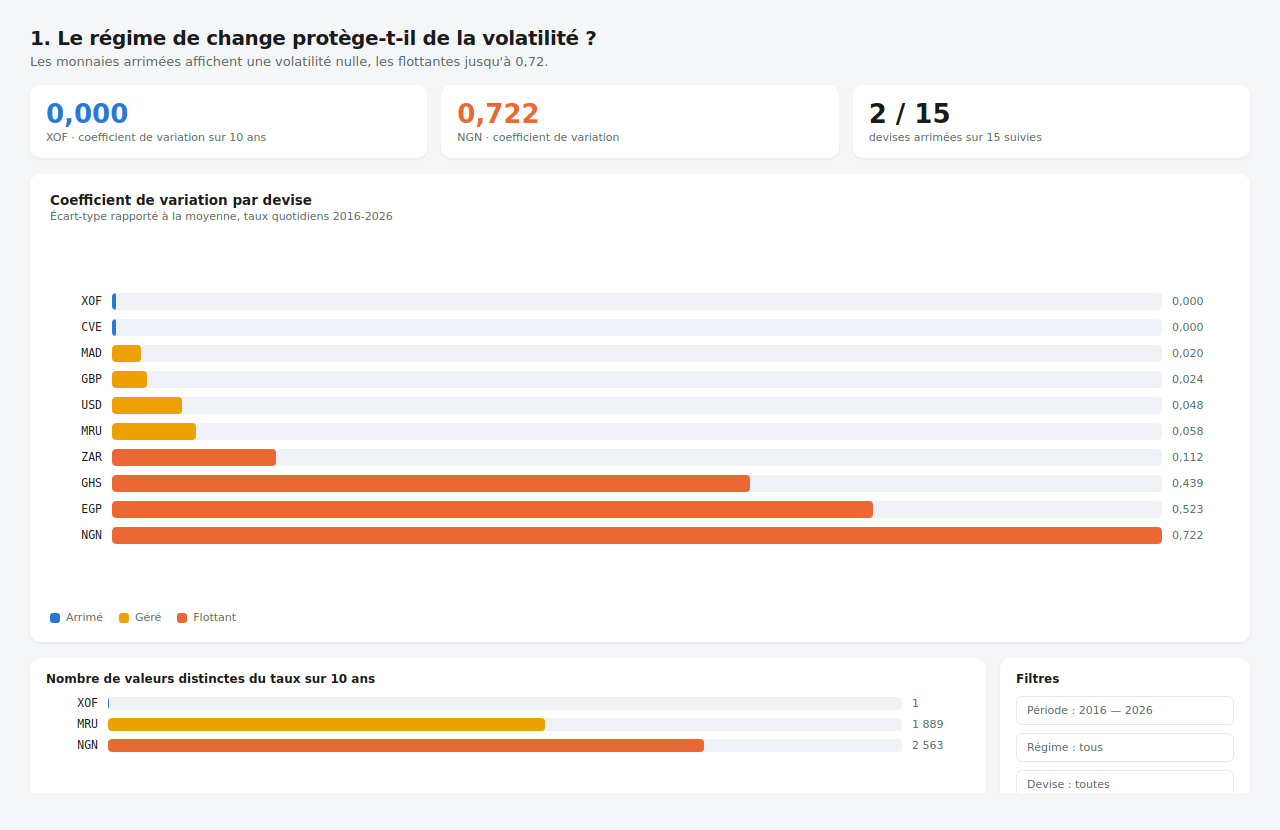
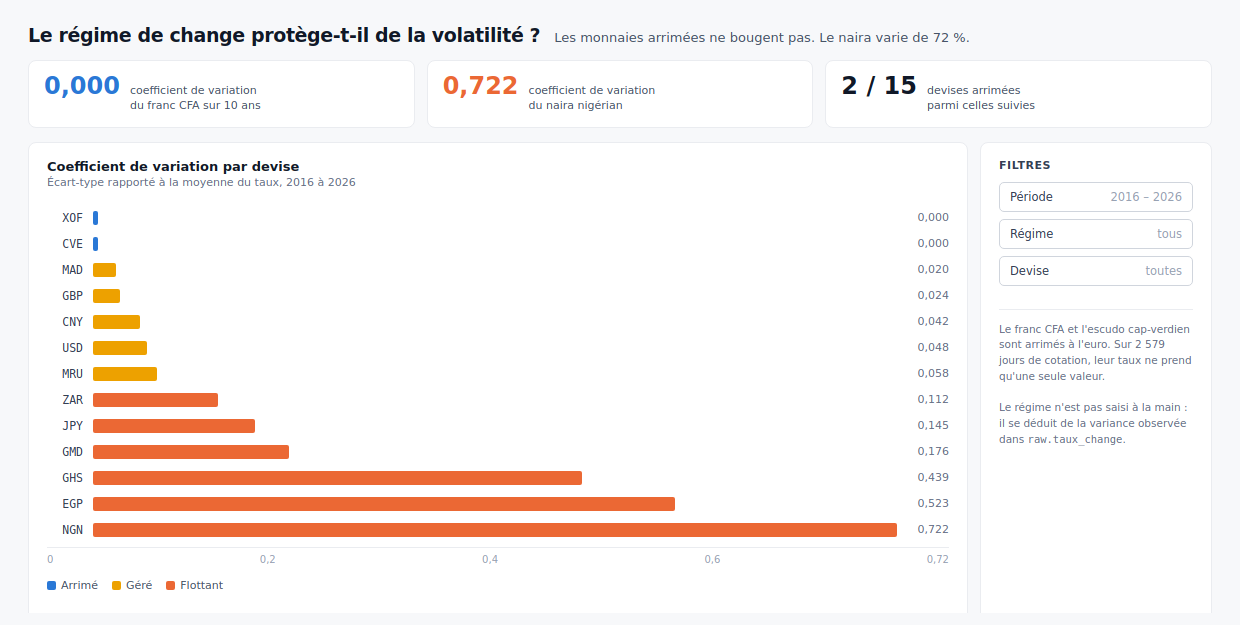
Met a jour les schemas
Le modele en etoile ne montrait pas regime, coefficient_variation ni
variation_pct, ajoutes depuis. Maquette du tableau de bord refaite plus sobre.

diff --git a/docs/diagramme/maquette.html b/docs/diagramme/maquette.html
@@ -1,90 +1,102 @@
 <!doctype html>
 <meta charset="utf-8">
 <style>
-  * { box-sizing: border-box; margin: 0; padding: 0 }
-  body {
-    width: 1280px; height: 880px; background: #f4f6f8;
-    font-family: "DejaVu Sans", system-ui, sans-serif; color: #1a1a19;
-    padding: 26px 30px; display: flex; flex-direction: column; gap: 16px;
-  }
-  .tete h1 { font-size: 20px; font-weight: 700; letter-spacing: -.02em }
-  .tete p { font-size: 13px; color: #5a6b64; margin-top: 4px }
+  * { box-sizing:border-box; margin:0; padding:0 }
+  body { width:1240px; height:700px; background:#f7f8fa;
+         font-family:"DejaVu Sans",system-ui,sans-serif; color:#101828;
+         padding:24px 28px; display:flex; flex-direction:column; gap:14px }
 
-  .kpis { display: grid; grid-template-columns: repeat(3,1fr); gap: 14px }
-  .kpi { background:#fff; border-radius:10px; padding:14px 16px;
-         box-shadow:0 1px 3px rgba(15,23,42,.07) }
-  .kpi .v { font-size: 26px; font-weight: 700; font-variant-numeric: tabular-nums }
-  .kpi .l { font-size: 11px; color:#5a6b64; margin-top:2px }
+  .bandeau { display:flex; align-items:baseline; gap:14px; flex-wrap:wrap }
+  .bandeau h1 { font-size:19px; font-weight:700; letter-spacing:-.02em }
+  .bandeau .rep { font-size:13px; color:#475467 }
 
-  .grand { background:#fff; border-radius:10px; padding:18px 20px; flex:1;
-           box-shadow:0 1px 3px rgba(15,23,42,.07); display:flex; flex-direction:column }
-  .grand h2 { font-size:13.5px; font-weight:650; margin-bottom:2px }
-  .grand .sous { font-size:11px; color:#5a6b64; margin-bottom:14px }
+  .rangee { display:grid; grid-template-columns:repeat(3,1fr); gap:12px }
+  .kpi { background:#fff; border-radius:8px; padding:13px 15px;
+         border:1px solid #eaecf0; display:flex; align-items:baseline; gap:10px }
+  .kpi b { font-size:24px; font-weight:700; font-variant-numeric:tabular-nums;
+           line-height:1 }
+  .kpi span { font-size:11px; color:#475467; line-height:1.35 }
 
-  .barres { display:flex; flex-direction:column; gap:9px; flex:1; justify-content:center }
-  .ligne { display:grid; grid-template-columns:52px 1fr 58px; align-items:center; gap:10px }
-  .ligne .dev { font-size:11.5px; font-family:"DejaVu Sans Mono",monospace; text-align:right }
-  .piste { height:17px; background:#eef2f6; border-radius:4px; overflow:hidden }
-  .piste i { display:block; height:100%; border-radius:4px }
-  .ligne .val { font-size:11px; color:#5a6b64; font-variant-numeric:tabular-nums }
+  .corps { display:grid; grid-template-columns:1fr 232px; gap:12px; flex:1 }
+  .panneau { background:#fff; border:1px solid #eaecf0; border-radius:8px;
+             padding:16px 18px; display:flex; flex-direction:column }
+  .panneau h2 { font-size:13px; font-weight:650 }
+  .panneau .sous { font-size:11px; color:#667085; margin-top:2px; margin-bottom:16px }
 
-  .bas { display:grid; grid-template-columns:1fr 250px; gap:14px; height:196px }
-  .carte { background:#fff; border-radius:10px; padding:14px 16px;
-           box-shadow:0 1px 3px rgba(15,23,42,.07) }
-  .carte h3 { font-size:12px; font-weight:650; margin-bottom:10px }
-  .legende { display:flex; gap:16px; font-size:11px; color:#5a6b64; margin-top:12px }
-  .legende span { display:flex; align-items:center; gap:6px }
-  .pastille { width:10px; height:10px; border-radius:3px; display:inline-block }
-  .filtre { font-size:11px; color:#5a6b64; border:1px solid #e2e8f0;
-            border-radius:6px; padding:7px 10px; margin-bottom:8px }
+  table { border-collapse:collapse; width:100% }
+  td { padding:0; vertical-align:middle; height:26px }
+  td.dev { width:46px; font-size:11.5px; font-family:"DejaVu Sans Mono",monospace;
+           color:#344054; text-align:right; padding-right:10px }
+  td.val { width:52px; font-size:11px; color:#667085; text-align:right;
+           font-variant-numeric:tabular-nums; padding-left:8px }
+  .bar { height:14px; border-radius:2px }
+
+  .axe { display:flex; justify-content:space-between; font-size:10px;
+         color:#98a2b3; border-top:1px solid #eaecf0; padding-top:6px; margin-top:4px }
+
+  .leg { display:flex; gap:14px; font-size:11px; color:#475467; margin-top:14px }
+  .leg i { width:9px; height:9px; border-radius:2px; display:inline-block;
+           margin-right:5px; vertical-align:middle }
+
+  .cote h3 { font-size:11px; font-weight:650; color:#344054;
+             text-transform:uppercase; letter-spacing:.05em; margin-bottom:10px }
+  .ctrl { font-size:11.5px; color:#344054; border:1px solid #d0d5dd;
+          border-radius:5px; padding:7px 10px; margin-bottom:7px;
+          display:flex; justify-content:space-between }
+  .ctrl em { font-style:normal; color:#98a2b3 }
+  .note { font-size:10.5px; color:#667085; line-height:1.5; margin-top:16px;
+          padding-top:12px; border-top:1px solid #eaecf0 }
 </style>
 
-<div class="tete">
-  <h1>1. Le régime de change protège-t-il de la volatilité ?</h1>
-  <p>Les monnaies arrimées affichent une volatilité nulle, les flottantes jusqu'à 0,72.</p>
+<div class="bandeau">
+  <h1>Le régime de change protège-t-il de la volatilité&nbsp;?</h1>
+  <span class="rep">Les monnaies arrimées ne bougent pas. Le naira varie de 72&nbsp;%.</span>
 </div>
 
-<div class="kpis">
-  <div class="kpi"><div class="v" style="color:#2a78d6">0,000</div><div class="l">XOF · coefficient de variation sur 10 ans</div></div>
-  <div class="kpi"><div class="v" style="color:#eb6834">0,722</div><div class="l">NGN · coefficient de variation</div></div>
-  <div class="kpi"><div class="v">2 / 15</div><div class="l">devises arrimées sur 15 suivies</div></div>
+<div class="rangee">
+  <div class="kpi"><b style="color:#2a78d6">0,000</b><span>coefficient de variation<br>du franc CFA sur 10 ans</span></div>
+  <div class="kpi"><b style="color:#eb6834">0,722</b><span>coefficient de variation<br>du naira nigérian</span></div>
+  <div class="kpi"><b>2 / 15</b><span>devises arrimées<br>parmi celles suivies</span></div>
 </div>
 
-<div class="grand">
-  <h2>Coefficient de variation par devise</h2>
-  <div class="sous">Écart-type rapporté à la moyenne, taux quotidiens 2016-2026</div>
-  <div class="barres">
-    <div class="ligne"><span class="dev">XOF</span><div class="piste"><i style="width:0.4%;background:#2a78d6"></i></div><span class="val">0,000</span></div>
-    <div class="ligne"><span class="dev">CVE</span><div class="piste"><i style="width:0.4%;background:#2a78d6"></i></div><span class="val">0,000</span></div>
-    <div class="ligne"><span class="dev">MAD</span><div class="piste"><i style="width:2.8%;background:#eda100"></i></div><span class="val">0,020</span></div>
-    <div class="ligne"><span class="dev">GBP</span><div class="piste"><i style="width:3.3%;background:#eda100"></i></div><span class="val">0,024</span></div>
-    <div class="ligne"><span class="dev">USD</span><div class="piste"><i style="width:6.7%;background:#eda100"></i></div><span class="val">0,048</span></div>
-    <div class="ligne"><span class="dev">MRU</span><div class="piste"><i style="width:8.0%;background:#eda100"></i></div><span class="val">0,058</span></div>
-    <div class="ligne"><span class="dev">ZAR</span><div class="piste"><i style="width:15.6%;background:#eb6834"></i></div><span class="val">0,112</span></div>
-    <div class="ligne"><span class="dev">GHS</span><div class="piste"><i style="width:60.8%;background:#eb6834"></i></div><span class="val">0,439</span></div>
-    <div class="ligne"><span class="dev">EGP</span><div class="piste"><i style="width:72.5%;background:#eb6834"></i></div><span class="val">0,523</span></div>
-    <div class="ligne"><span class="dev">NGN</span><div class="piste"><i style="width:100%;background:#eb6834"></i></div><span class="val">0,722</span></div>
-  </div>
-  <div class="legende">
-    <span><i class="pastille" style="background:#2a78d6"></i>Arrimé</span>
-    <span><i class="pastille" style="background:#eda100"></i>Géré</span>
-    <span><i class="pastille" style="background:#eb6834"></i>Flottant</span>
-  </div>
-</div>
-
-<div class="bas">
-  <div class="carte">
-    <h3>Nombre de valeurs distinctes du taux sur 10 ans</h3>
-    <div class="barres" style="gap:7px">
-      <div class="ligne"><span class="dev">XOF</span><div class="piste" style="height:13px"><i style="width:0.03%;background:#2a78d6"></i></div><span class="val">1</span></div>
-      <div class="ligne"><span class="dev">MRU</span><div class="piste" style="height:13px"><i style="width:55%;background:#eda100"></i></div><span class="val">1 889</span></div>
-      <div class="ligne"><span class="dev">NGN</span><div class="piste" style="height:13px"><i style="width:75%;background:#eb6834"></i></div><span class="val">2 563</span></div>
+<div class="corps">
+  <div class="panneau">
+    <h2>Coefficient de variation par devise</h2>
+    <div class="sous">Écart-type rapporté à la moyenne du taux, 2016 à 2026</div>
+    <table>
+      <tr><td class="dev">XOF</td><td><div class="bar" style="width:0.6%;background:#2a78d6"></div></td><td class="val">0,000</td></tr>
+      <tr><td class="dev">CVE</td><td><div class="bar" style="width:0.6%;background:#2a78d6"></div></td><td class="val">0,000</td></tr>
+      <tr><td class="dev">MAD</td><td><div class="bar" style="width:2.8%;background:#eda100"></div></td><td class="val">0,020</td></tr>
+      <tr><td class="dev">GBP</td><td><div class="bar" style="width:3.3%;background:#eda100"></div></td><td class="val">0,024</td></tr>
+      <tr><td class="dev">CNY</td><td><div class="bar" style="width:5.8%;background:#eda100"></div></td><td class="val">0,042</td></tr>
+      <tr><td class="dev">USD</td><td><div class="bar" style="width:6.7%;background:#eda100"></div></td><td class="val">0,048</td></tr>
+      <tr><td class="dev">MRU</td><td><div class="bar" style="width:8.0%;background:#eda100"></div></td><td class="val">0,058</td></tr>
+      <tr><td class="dev">ZAR</td><td><div class="bar" style="width:15.5%;background:#eb6834"></div></td><td class="val">0,112</td></tr>
+      <tr><td class="dev">JPY</td><td><div class="bar" style="width:20.1%;background:#eb6834"></div></td><td class="val">0,145</td></tr>
+      <tr><td class="dev">GMD</td><td><div class="bar" style="width:24.4%;background:#eb6834"></div></td><td class="val">0,176</td></tr>
+      <tr><td class="dev">GHS</td><td><div class="bar" style="width:60.8%;background:#eb6834"></div></td><td class="val">0,439</td></tr>
+      <tr><td class="dev">EGP</td><td><div class="bar" style="width:72.4%;background:#eb6834"></div></td><td class="val">0,523</td></tr>
+      <tr><td class="dev">NGN</td><td><div class="bar" style="width:100%;background:#eb6834"></div></td><td class="val">0,722</td></tr>
+    </table>
+    <div class="axe"><span>0</span><span>0,2</span><span>0,4</span><span>0,6</span><span>0,72</span></div>
+    <div class="leg">
+      <span><i style="background:#2a78d6"></i>Arrimé</span>
+      <span><i style="background:#eda100"></i>Géré</span>
+      <span><i style="background:#eb6834"></i>Flottant</span>
     </div>
   </div>
-  <div class="carte">
+
+  <div class="panneau cote">
     <h3>Filtres</h3>
-    <div class="filtre">Période : 2016 — 2026</div>
-    <div class="filtre">Régime : tous</div>
-    <div class="filtre">Devise : toutes</div>
+    <div class="ctrl">Période <em>2016 – 2026</em></div>
+    <div class="ctrl">Régime <em>tous</em></div>
+    <div class="ctrl">Devise <em>toutes</em></div>
+    <div class="note">
+      Le franc CFA et l'escudo cap-verdien sont arrimés à l'euro.
+      Sur 2&nbsp;579 jours de cotation, leur taux ne prend qu'une seule valeur.
+      <br><br>
+      Le régime n'est pas saisi à la main&nbsp;: il se déduit de la variance
+      observée dans <code>raw.taux_change</code>.
+    </div>
   </div>
 </div>

diff --git a/docs/diagramme/modele.html b/docs/diagramme/modele.html
@@ -39,7 +39,7 @@
   svg.liens { position:absolute; inset:0; width:100%; height:100%; pointer-events:none }
 </style>
 
-<h1>Modèle dimensionnel — dataset <code>marts</code></h1>
+<h1>Modèle dimensionnel du dataset <code>marts</code></h1>
 <div class="sous">Grain de la table de faits : un instrument, un jour. Les cotations exprimées en centimes sont divisées puis converties en euros.</div>
 
 <div class="grille">
@@ -50,7 +50,7 @@
   </svg>
 
   <div class="tbl dim">
-    <h2>dim_temps <em>3 653</em></h2>
+    <h2>dim_temps <em>3 651</em></h2>
     <ul><li><b>date_jour</b></li><li>annee · trimestre · mois</li><li>jour_semaine</li><li>est_weekend</li></ul>
   </div>
 
@@ -61,13 +61,13 @@
 
   <div class="tbl dim">
     <h2>dim_devise <em>16</em></h2>
-    <ul><li><b>devise_id</b></li><li>nom_devise</li><li>symbole</li></ul>
+    <ul><li><b>devise_id</b></li><li>nom_devise · symbole</li><li>coefficient_variation</li><li>regime</li></ul>
   </div>
 
   <div></div>
 
   <div class="tbl fait">
-    <h2>fct_cotation_journaliere <em>103 085</em></h2>
+    <h2>fct_cotation_journaliere <em>103 084</em></h2>
     <ul>
       <li><b>date_cotation</b> · <b>instrument_id</b></li>
       <li>devise_cotation · devise_pivot</li>
